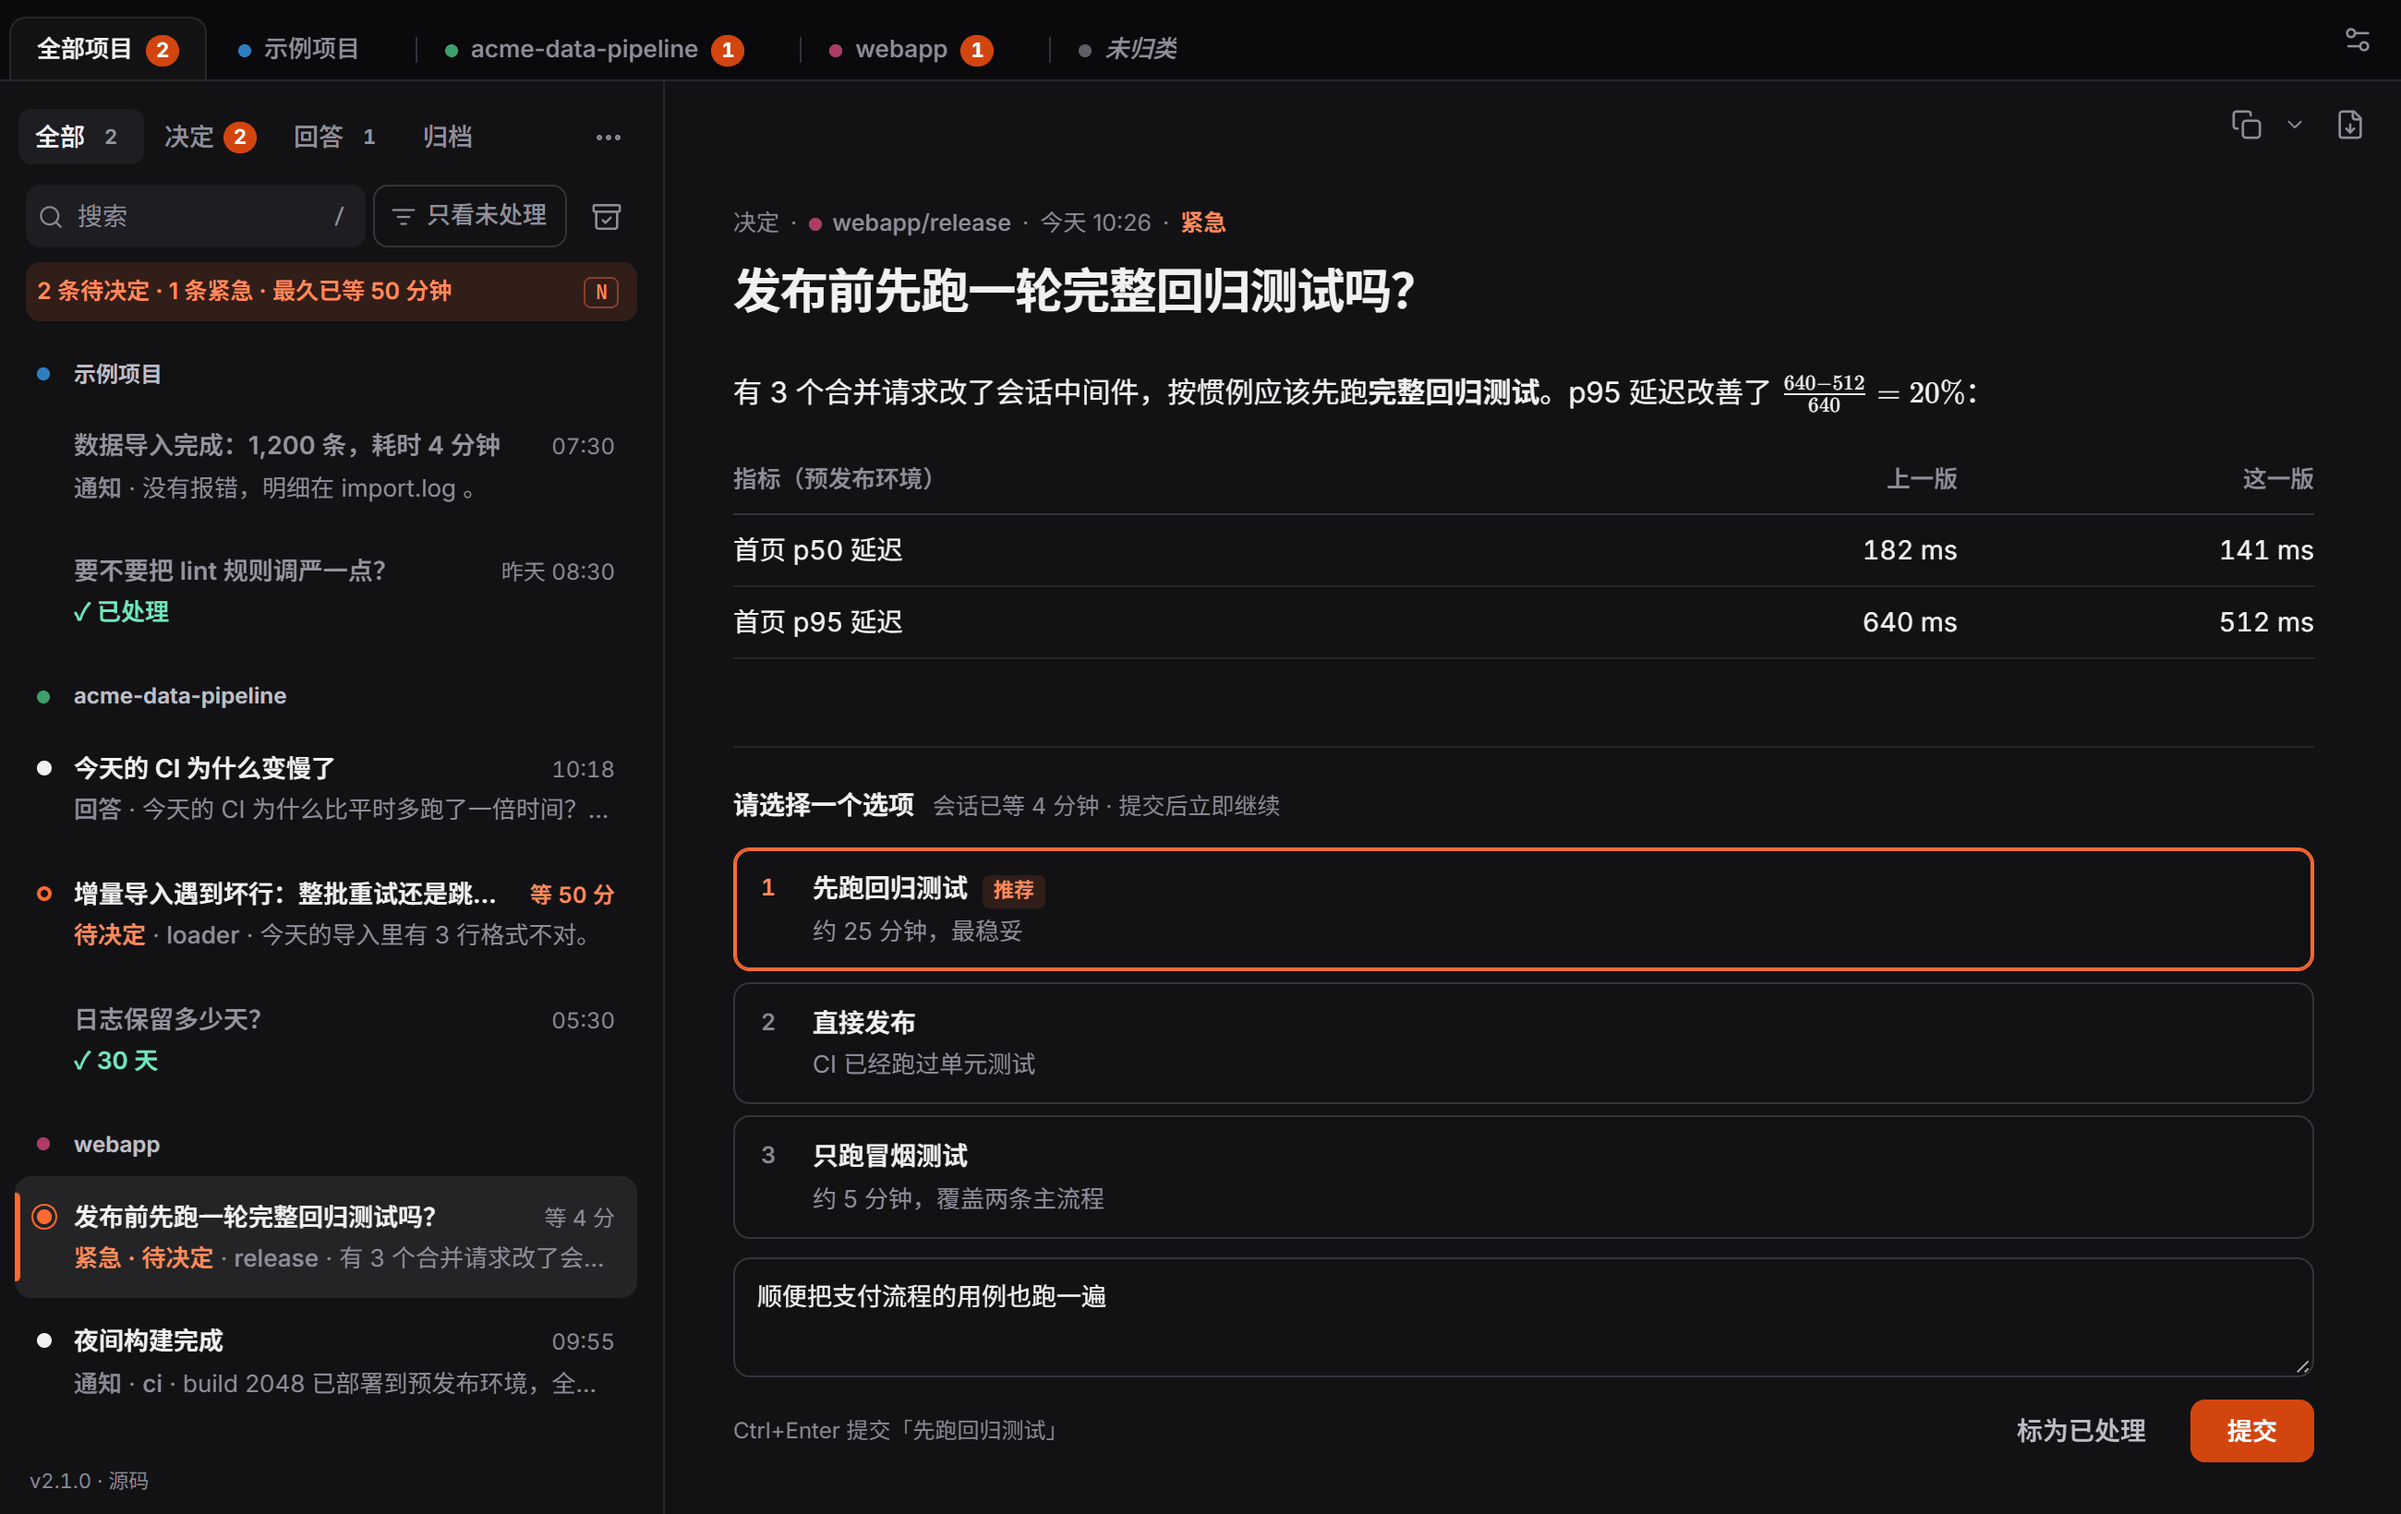
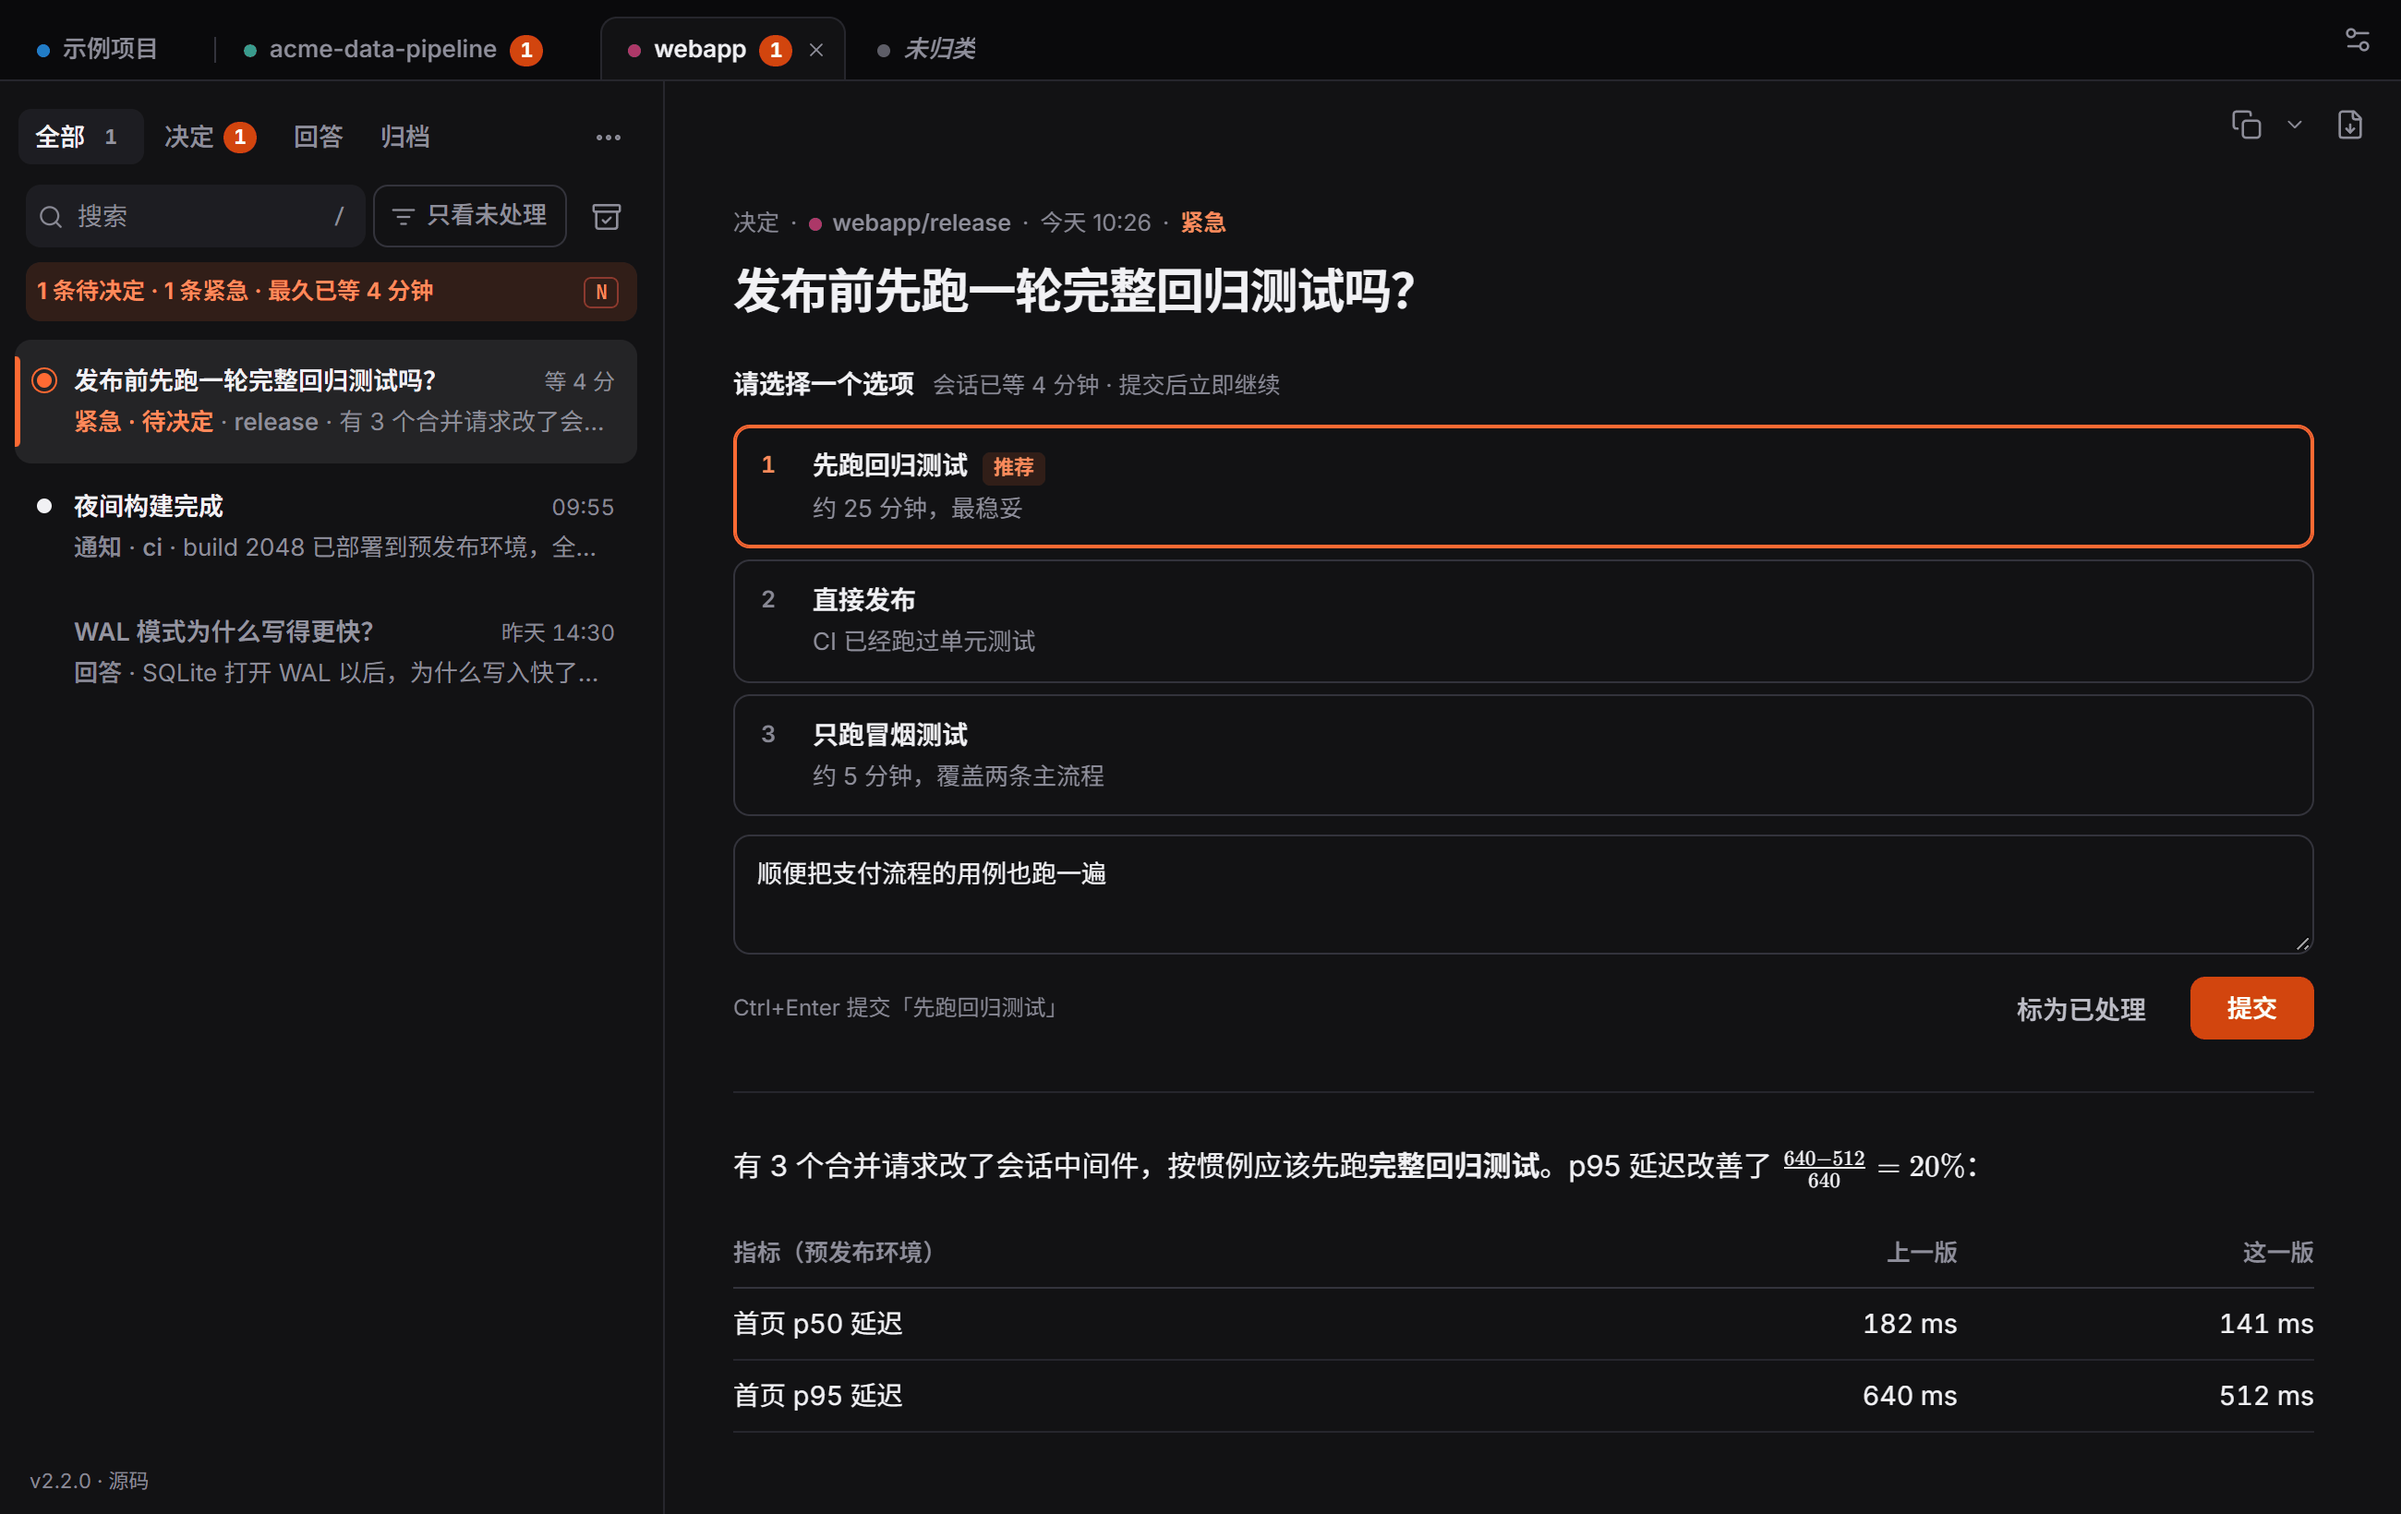
Drop the 已删除 and 已撤销 notices; README notes on last-opened times; new screenshots

diff --git a/src/claudedesk/assets/app.js b/src/claudedesk/assets/app.js
@@ -1285,9 +1285,8 @@
       renderAll();
       refocusList();
       act({ action: "delete", ids: ids }).then(function () {
-        return refreshNow(true);
-      }).then(function () { toast("已删除 " + ids.length + " 条"); })
-        .catch(function (e) { ids.forEach(function (id) { delete S.gone[id]; }); toast(e.message, { bad: true }); refreshNow(true); });
+        return refreshNow(true); // 行已经没了，再弹"已删除"是多余的
+      }).catch(function (e) { ids.forEach(function (id) { delete S.gone[id]; }); toast(e.message, { bad: true }); refreshNow(true); });
     });
   }
 
@@ -1375,8 +1374,7 @@
     if (!u) return toast("没有可以撤销的操作");
     lastUndo = null;
     u.el.remove();
-    u.run();
-    toast("已撤销");
+    u.run(); // 放回来的行自己看得见，不再弹"已撤销"
   }
   // ---- 复制
   function markdownOf(d) {

diff --git a/tests/test_ui_integration.py b/tests/test_ui_integration.py
@@ -260,8 +260,8 @@ def test_deleted_rows_do_not_flash_back_while_the_delete_is_in_flight(env):
     assert page.evaluate("ids => ids.filter(id => document.querySelector('.item[data-id=\"' + id + '\"]'))", ids[:2]) == []
     assert page.evaluate("ids => ids.filter(id => deskTest.S.fresh[id])", ids[:2]) == []
     assert wait_until(lambda: all(i in store.deleted for i in ids[:2]))
-    page.wait_for_selector(".toast >> text=已删除 2 条")
-    assert page.locator(".item").count() == 2
+    page.wait_for_function("document.querySelectorAll('.item').length === 2")
+    assert page.locator(".toast", has_text="已删除").count() == 0  # 删掉的行已经看不见了，不再弹"已删除"
     assert errors == []
 
 

diff --git a/tests/test_ui_handled.py b/tests/test_ui_handled.py
@@ -377,7 +377,8 @@ def test_delete_of_an_open_decision_says_the_session_is_not_told(env):
     page.wait_for_function("document.activeElement.id === 'modalOk'")
     assert page.inner_text("#modalText") == "删除后不能恢复，会从收件箱文件里真正移除。\n其中有还在等你决定的消息：删除不会通知会话。"
     page.keyboard.press("Enter")
-    wait_toast(page, "已删除 1 条")
+    page.wait_for_function(f"() => !document.querySelector('.item[data-id=\"{dec}\"]')")
+    page.wait_for_function(f"() => !deskTest.S.allById['{dec}']")  # 删掉了（服务端那边也没了）
     r = resp(d, dec)[0]
     assert r["dismissed"] is True and r["silent"] is True
     assert errors == []

diff --git a/tests/test_ui_keys.py b/tests/test_ui_keys.py
@@ -330,7 +330,6 @@ def test_z_and_ctrl_z_undo_archive_and_read(env):
     page.wait_for_function("document.querySelector('.toast button')?.textContent === '撤销（Z）'")
     assert v[0] in store.archived
     page.keyboard.press("z")
-    page.wait_for_function("[...document.querySelectorAll('.toast')].some(t => t.textContent === '已撤销')")
     page.wait_for_function(f"() => !!document.querySelector('.item[data-id=\"{v[0]}\"]')")
     assert v[0] not in store.archived
     assert page.locator(".toast button").count() == 0  # 撤销过的提示条收起来了

diff --git a/README.md b/README.md
@@ -321,7 +321,7 @@ Everything lives in `data\` next to `ClaudeDesk.exe` and `desk.py`.
 | `responses.jsonl` | The app (your replies) and `desk.py close`; append-only | One reply per line |
 | `followups.jsonl` | The app (your follow-ups); append-only | One follow-up per line. Older versions also wrote "delivered" records here; they are still read |
 | `deliveries.jsonl` | `desk.py listen`, `wait`, `close` and `inbox --adopt`; append-only, never rewritten | What was delivered to which session and when, adopted sessions, and new PIDs of resumed sessions |
-| `state.json` | The app | Read / notified / archived / deleted ids, repo filing, closed tabs, settings, window position |
+| `state.json` | The app | Read / notified / archived / deleted ids, when you last opened each message, repo filing, closed tabs, settings, window position |
 | `instance.json` | The app | Port and token of the running instance, so a second launch hands over to it |
 | `claudedesk.log` | The app | Log (start, update, errors), rotated at 1 MB |
 | `.lock` | Both | Cross-process lock file |
